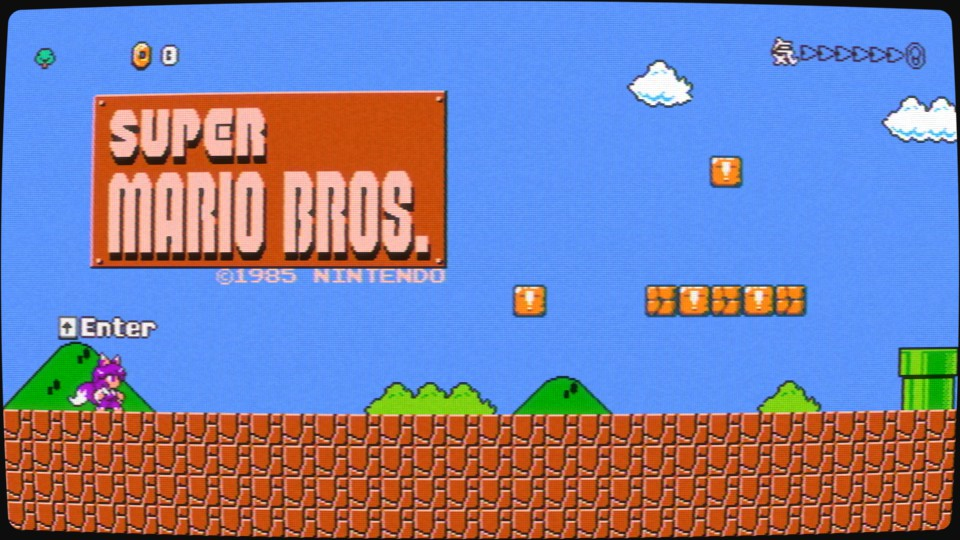
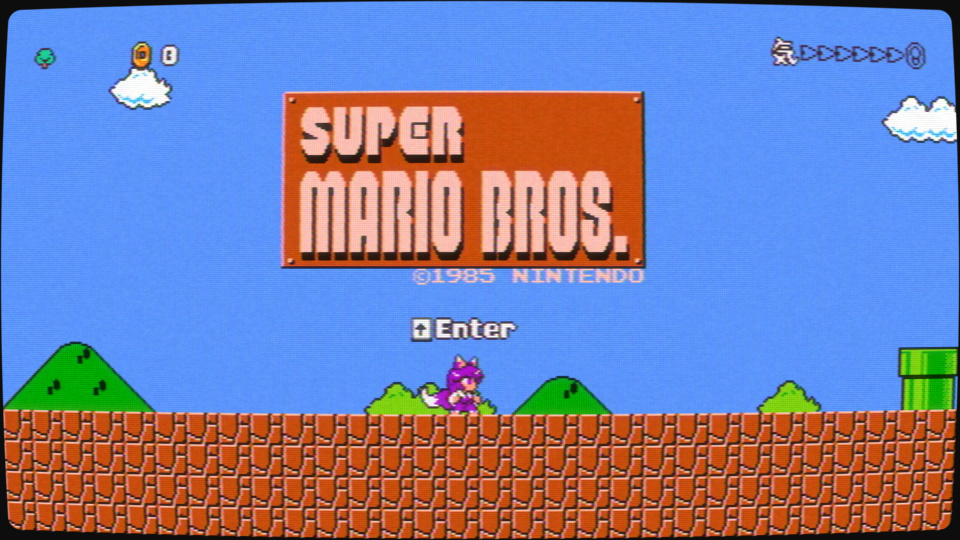
Update screenshot

diff --git a/README.md b/README.md
@@ -62,10 +62,9 @@ Subscribe to [Super Kitsune Bros on the Steam Workshop](https://steamcommunity.c
 1. See the newly created `deps` directory for example levels from Kitsune Tails as well as the modding documentation
 1. Run `npm run lint` to check the maps for broken links and bad data
 1. To remove the downloaded dependencies, run `npm run clean`
-1. To publish a new version, push a `v*` tag. GitHub Actions builds `SuperKitsuneBros.zip` with `npm run package` and attaches it to the release. `npm run package` deletes all the development files, including `.git`, so only run it locally in a separate clone
+1. To publish a new version, push a `v*` tag. GitHub Actions builds `SuperKitsuneBros.zip` with `npm run package` and attaches it to the release. `npm run package` copies `tools/screenshot.jpg` to `../SuperKitsuneBros.jpg` as the 16:9 Workshop preview, then deletes all the development files, including `.git`, so only run it locally in a separate clone
 1. To update the [Steam Workshop item](https://steamcommunity.com/sharedfiles/filedetails/?id=3320203878)...
-    1. Extract the release's `SuperKitsuneBros.zip` into your levels folder, in place of your clone. Only mods there can be uploaded
-    1. Put a 16:9 preview image named `SuperKitsuneBros.png` next to the `SuperKitsuneBros` folder
+    1. Extract the release's `SuperKitsuneBros.zip` into your levels folder, in place of your clone. Only mods there can be uploaded. The zip includes the `SuperKitsuneBros.jpg` preview image, which lands next to the `SuperKitsuneBros` folder
     1. In Kitsune Tails, select the mod in the Mods menu and press the menu3 button to upload it
 
 ## File Descriptions
